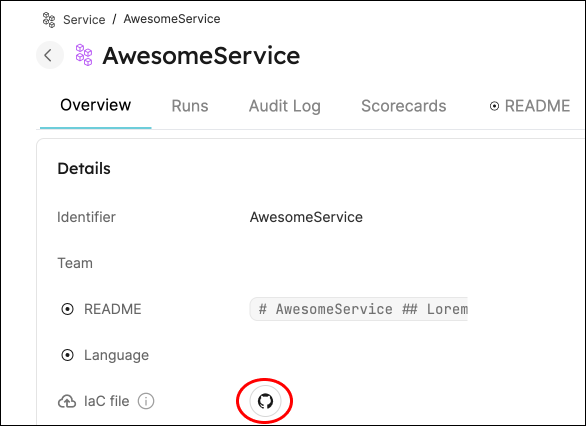
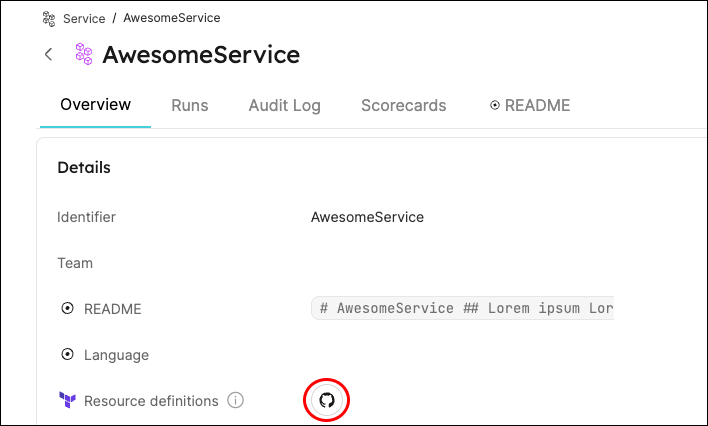
iac guide fixes

diff --git a/docs/guides-and-tutorials/create-cloud-resource-using-iac.md b/docs/guides-and-tutorials/create-cloud-resource-using-iac.md
@@ -28,7 +28,6 @@ After completing it, you will get a sense of how your organization's daily routi
 
 - Platform engineers will be able to define powerful actions that developers can use within controlled permission boundaries.
 - Developers will be able to easily create and track cloud resources from Port.
-- R&D managers will get a bird's-eye-view of the cloud resources in the organization.
 
 ### Add a URL to your new resource's definition
 
@@ -129,9 +128,9 @@ acl = "{{ bucket_acl }}"
 
 <br/><br/>
 
-- Creating a copy of the template file and replacing its variables with the data from the action's input.
-- Creating a pull request in the repository to add the new resource.
-- Reporting & logging the action result back to Port, and updating the relevant service's `Resource definitions` property with the URL of the new resource file.
+- Creating a copy of the template file in the selected service's repository and replacing its variables with the data from the action's input.
+- Creating a pull request in the selected service's repository to add the new resource.
+- Reporting & logging the action result back to Port, and updating the relevant service's `Resource definitions` property with the URL of the service's resources.
 
 Under ".github/workflows", create a new file named `portCreateBucket.yaml` and use the following snippet as its content:
 
@@ -172,7 +171,7 @@ jobs:
       - name: Open a pull request
         uses: peter-evans/create-pull-request@v5
         with:
-          token: ${{ secrets.PAT }}
+          token: ${{ secrets.ORG_ADMIN_TOKEN }}
           path: ./targetRepo
           commit-message: Create new resource - ${{ inputs.name }}
           committer: GitHub <noreply@github.com>
@@ -195,7 +194,7 @@ jobs:
           blueprint: service
           properties: |-
             {
-              "resource_definitions": "${{ github.server_url }}/${{fromJson(inputs.port_payload).context.entity}}/blob/main/resources/"
+              "resource_definitions": "${{ github.server_url }}/${{ github.repository_owner }}/${{fromJson(inputs.port_payload).context.entity}}/blob/main/resources/"
             }
           clientId: ${{ secrets.PORT_CLIENT_ID }}
           clientSecret: ${{ secrets.PORT_CLIENT_SECRET }}
